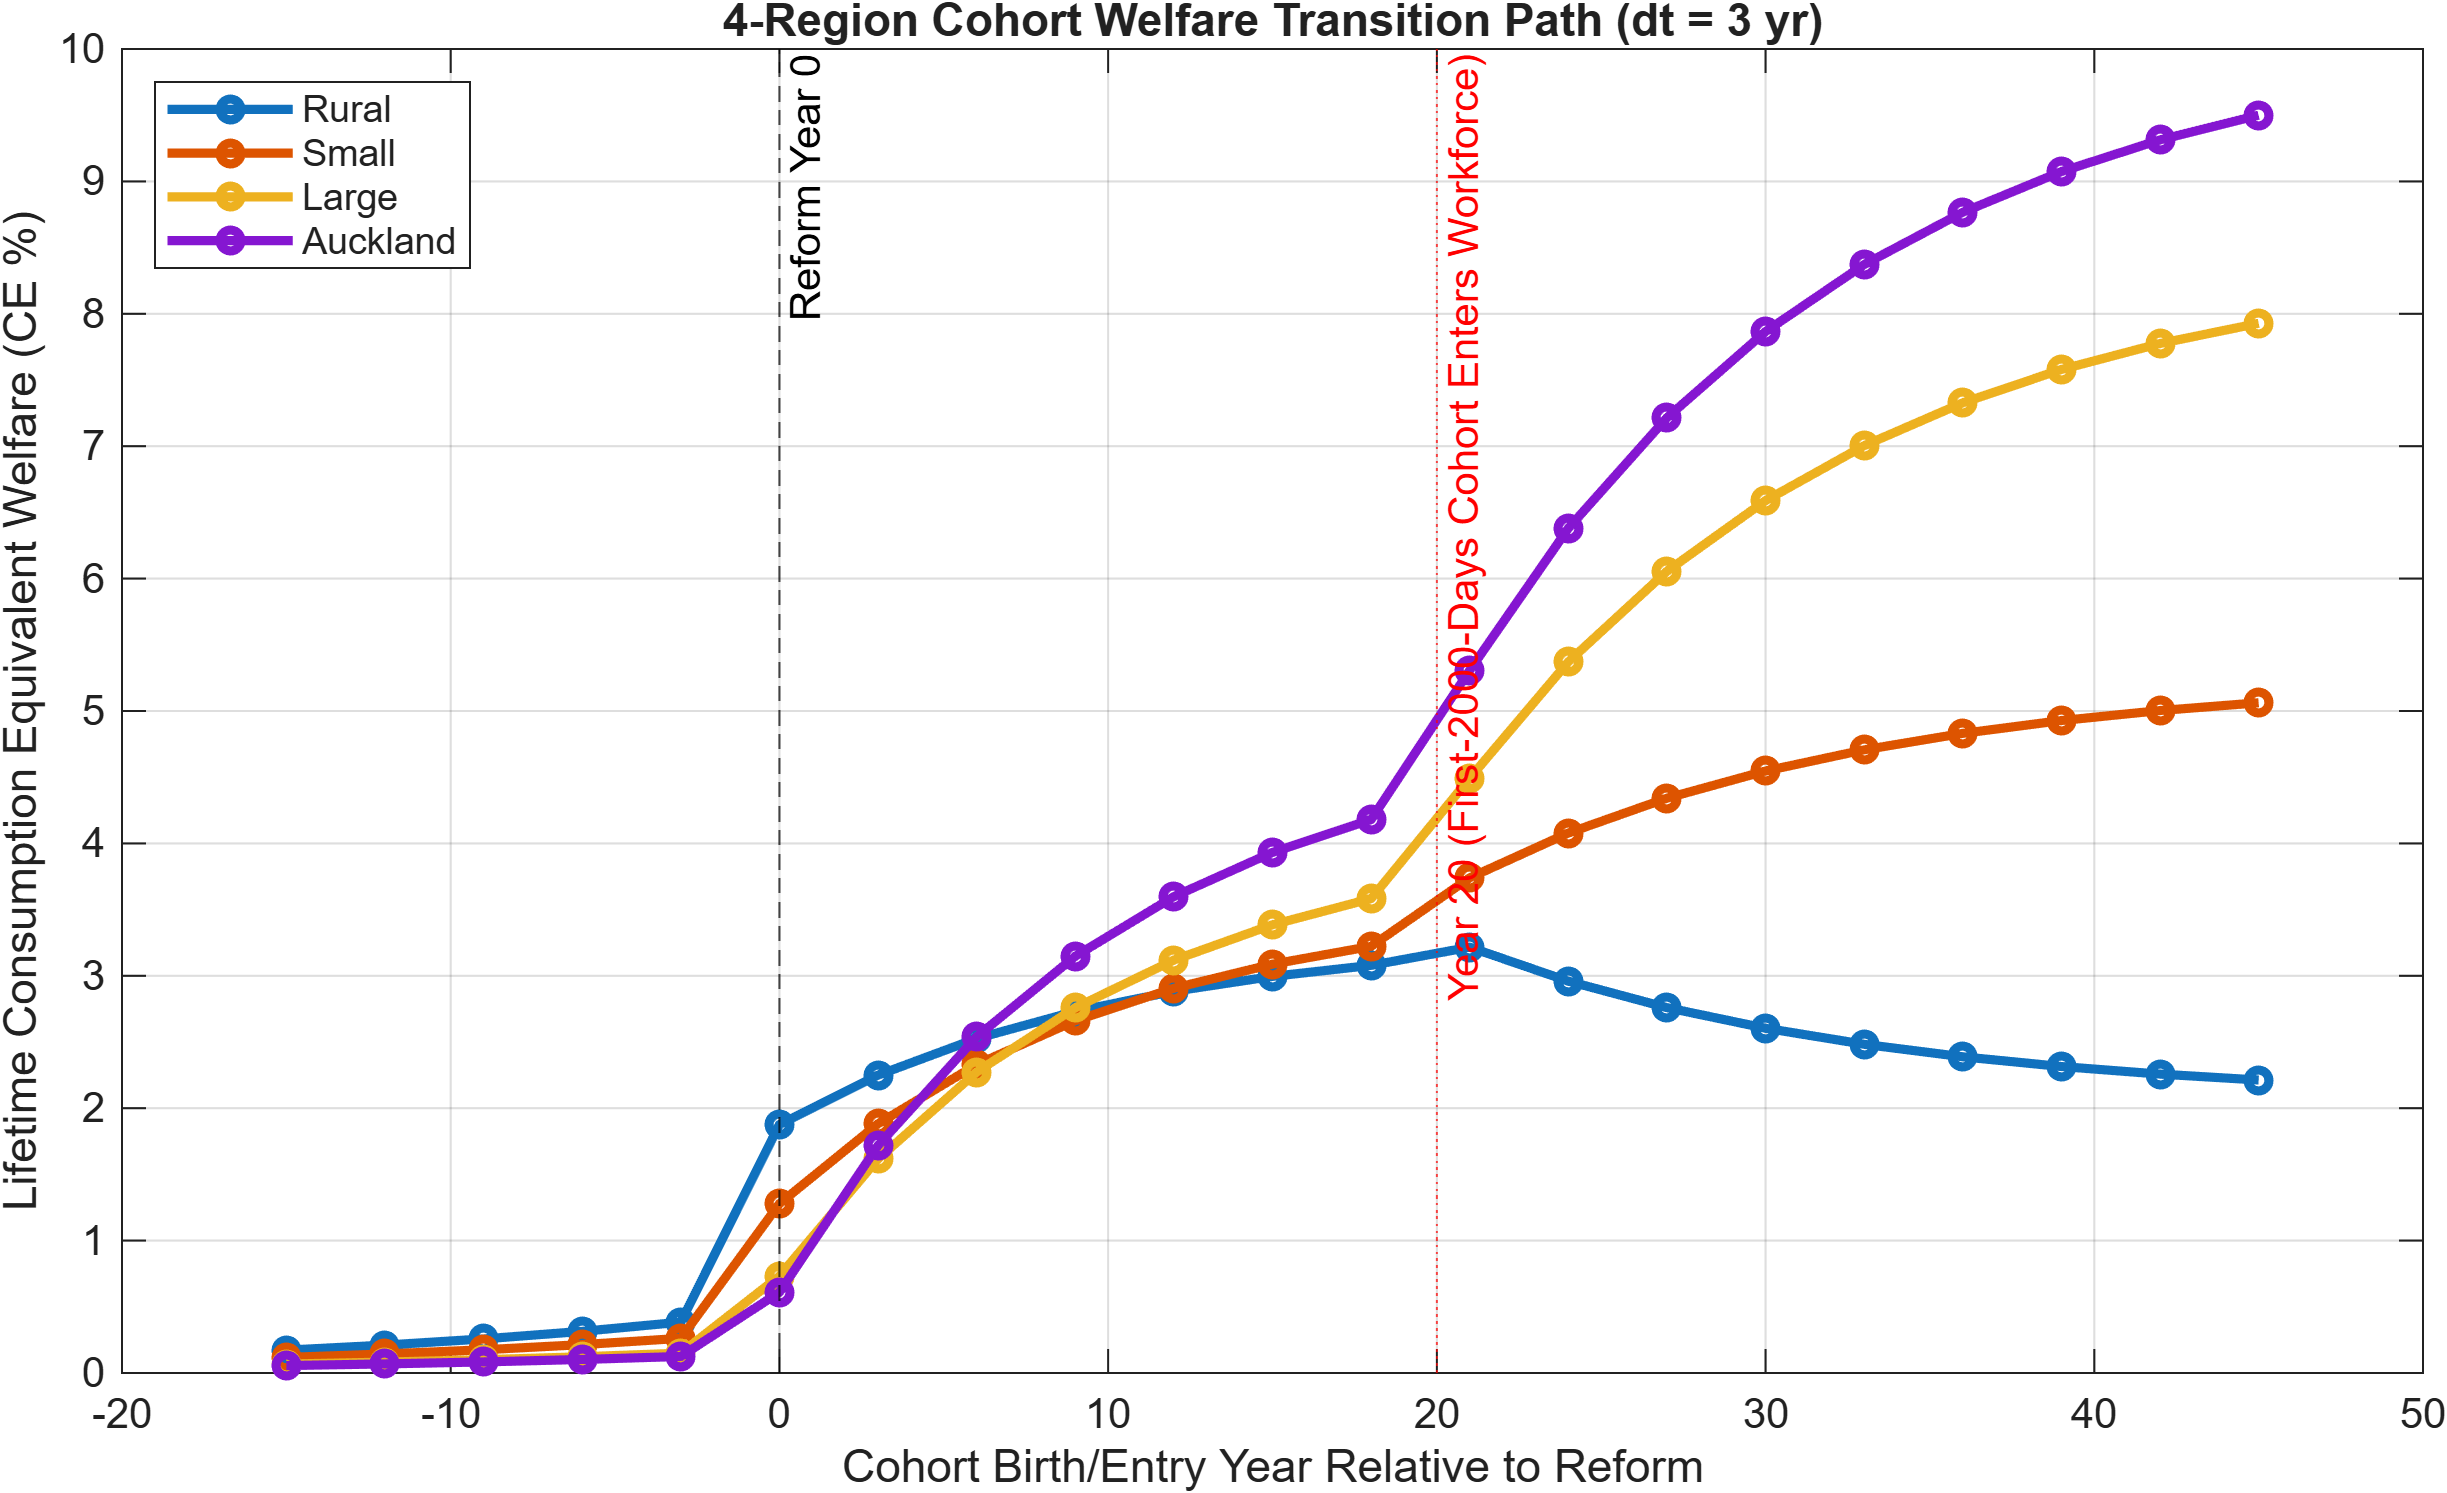
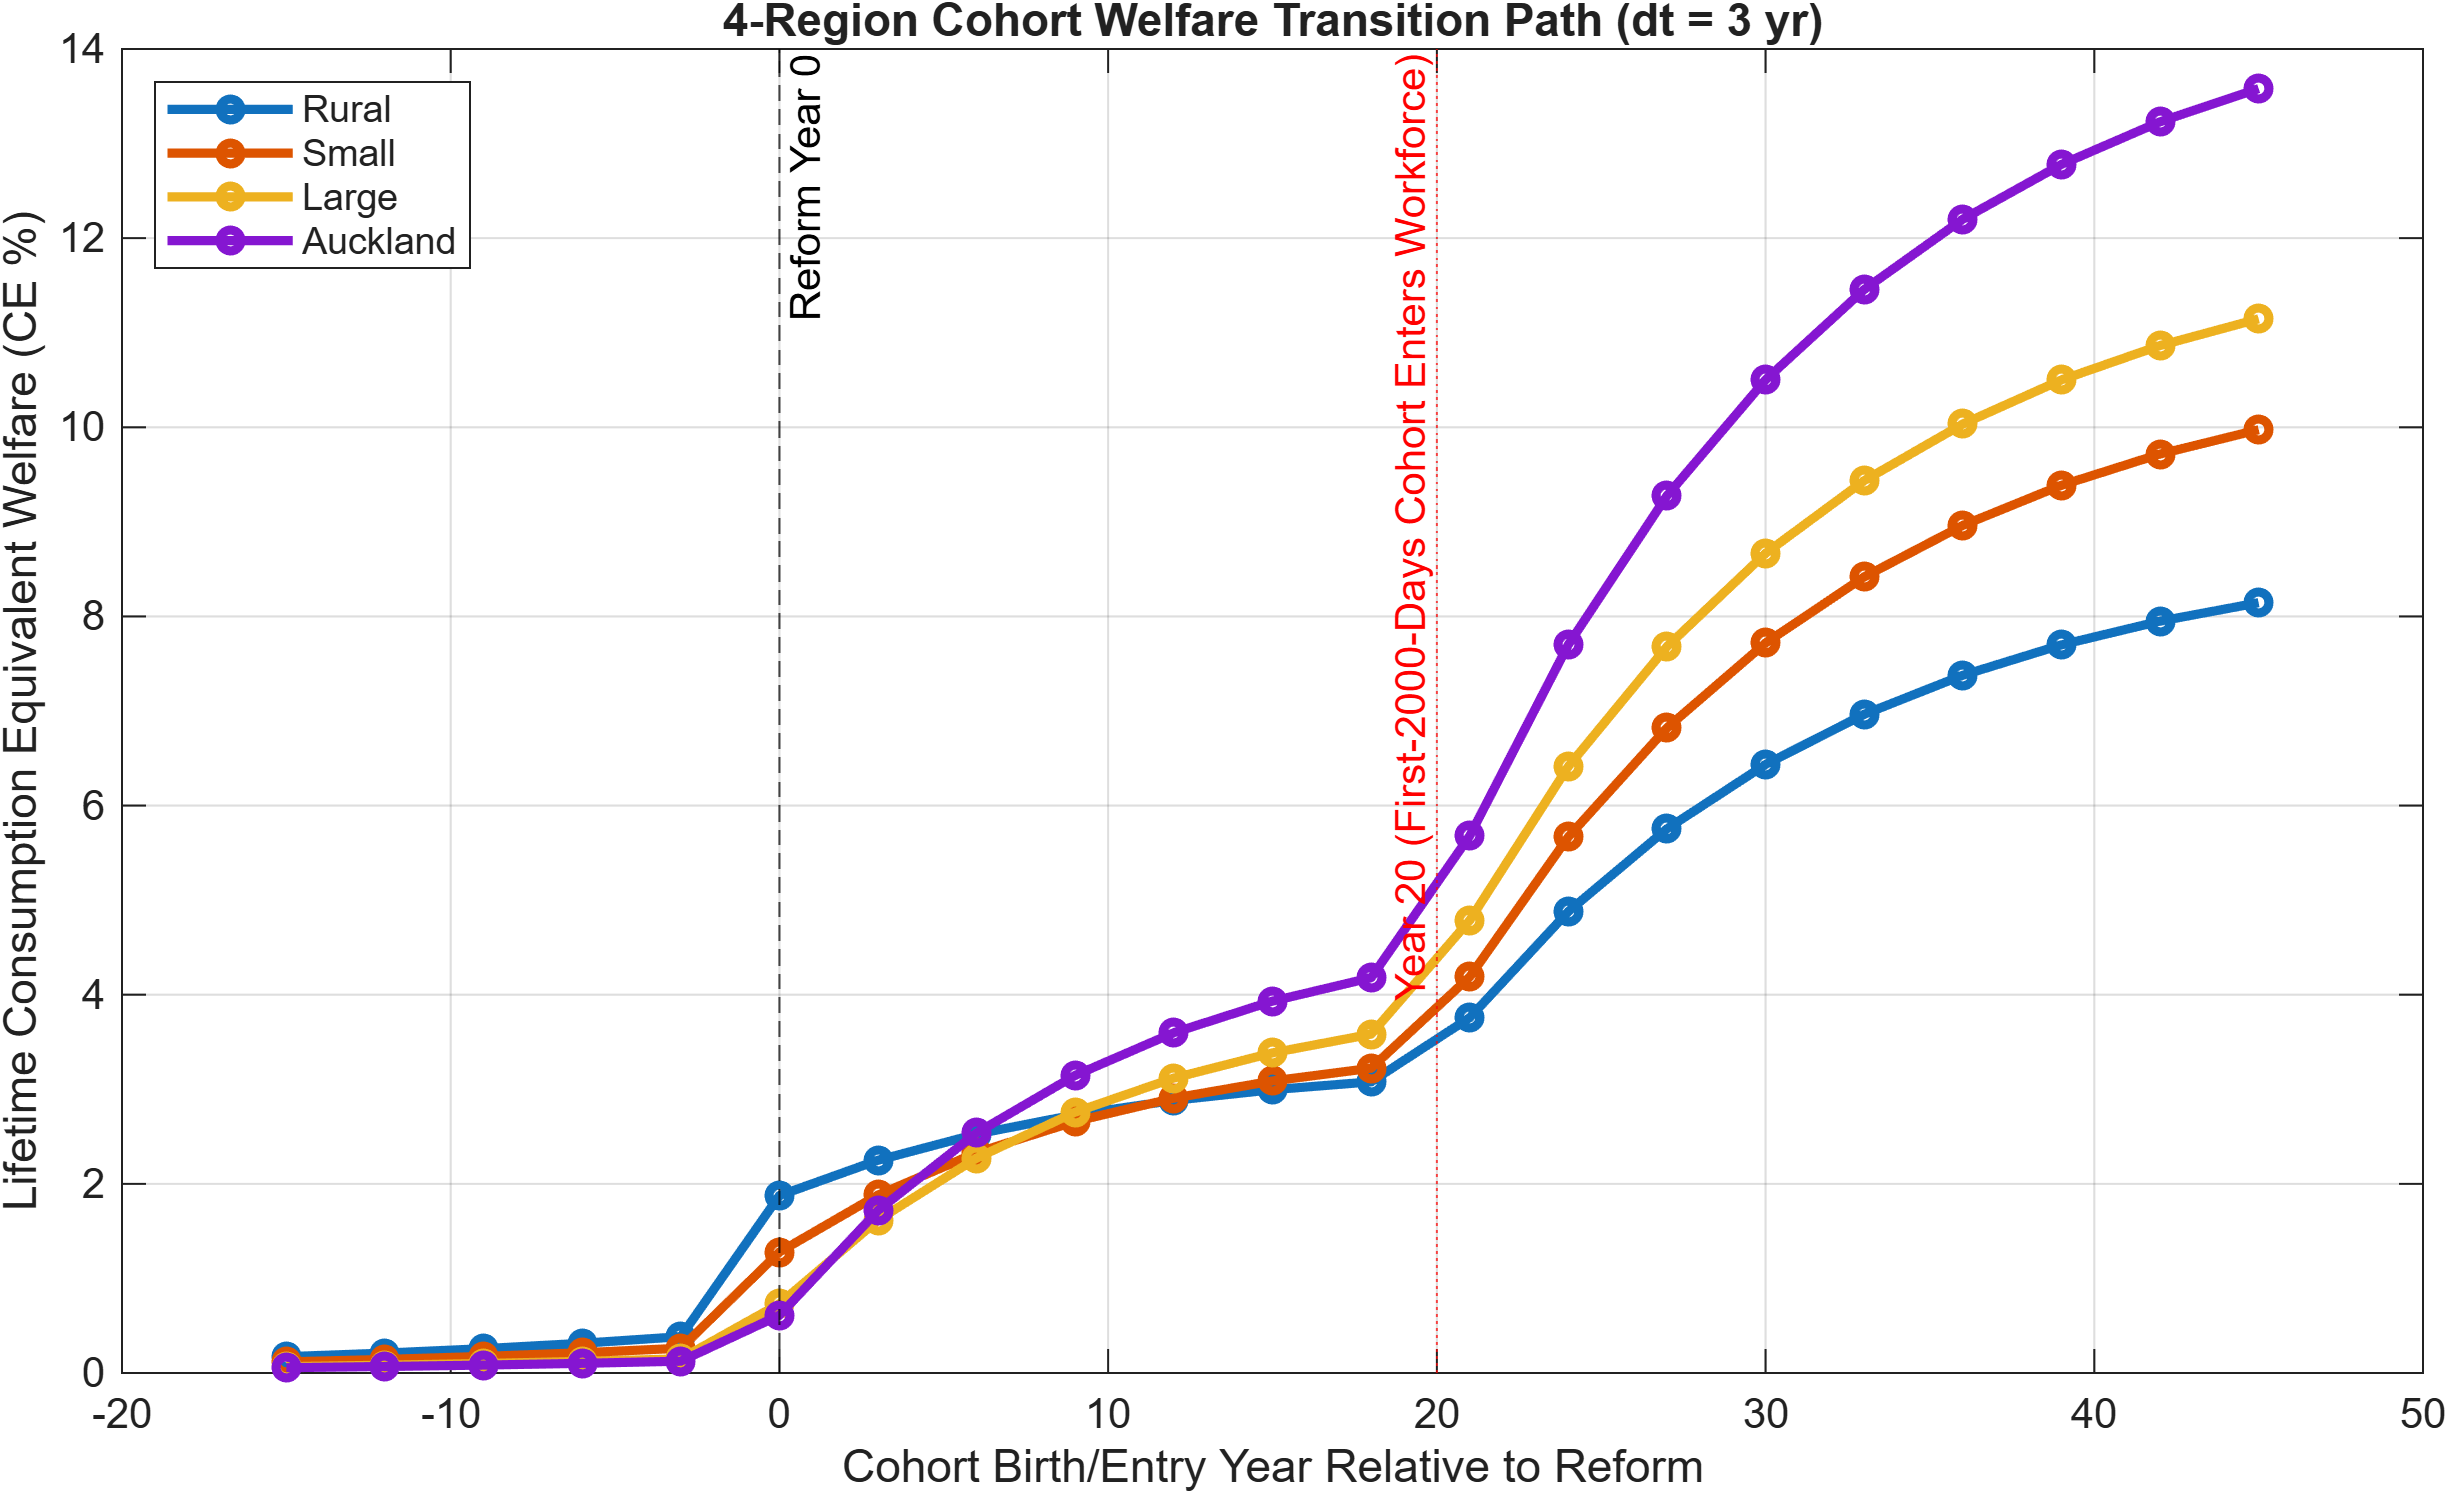
Graphical tuning

diff --git a/PolicyExperiment_LeeSeshadri_4Region.m b/PolicyExperiment_LeeSeshadri_4Region.m
@@ -227,22 +227,51 @@ T_Out = array2table([Ebar_SR, Ebar_LR, CE_LR], 'RowNames', PolicyNames, ...
     'Ebar_LR_Rural', 'Ebar_LR_Small', 'Ebar_LR_Large', 'Ebar_LR_Auckland', ...
     'CE_LR_Rural', 'CE_LR_Small', 'CE_LR_Large', 'CE_LR_Auckland'});
 
-figE8 = figure('Name', 'Lee & Seshadri 4-Region Counterfactuals', 'Color', 'w', 'Position', [100, 100, 1200, 750]);
-tiledlayout(2, 2, 'TileSpacing', 'compact', 'Padding', 'compact');
-cats = categorical(PolicyNames, PolicyNames);
+figE8 = figure('Name', 'Lee & Seshadri 4-Region Counterfactuals', 'Color', 'w', 'Position', [100, 80, 1240, 820]);
+t_e8  = tiledlayout(2, 2, 'TileSpacing', 'loose', 'Padding', 'compact');
 
-nexttile; bar(cats, IGE_LR, 'grouped'); ylabel('Long-Run IGE');
-title('A. Intergenerational Elasticity of Earnings (IGE\_LR)'); grid on; legend(Regions, 'Location', 'northwest');
+CleanLabels = {'BM Baseline'; 'P0 Early (0-5)'; 'P1/P2 Late (6-17)'; 'BN Front-Load'; 'P0 + Grant E'};
+cats = categorical(CleanLabels, CleanLabels);
 
-nexttile; bar(cats, VarExpl_LFE, 'grouped'); ylabel('Variance Explained (%)');
-title('B. Lifetime Earnings Variance Explained by Parents at Age 30-35'); grid on;
+% Panel A: Long-Run IGE
+ax1 = nexttile;
+b_ige = bar(cats, IGE_LR, 'grouped');
+ylim([0, max(0.62, max(IGE_LR(:)) * 1.25)]);
+ylabel('Long-Run IGE');
+title('A. Intergenerational Elasticity of Earnings (IGE\_LR)');
+set(ax1, 'TickLabelInterpreter', 'none');
+grid on;
+lgd = legend(b_ige, Regions, 'Orientation', 'horizontal', 'Location', 'northoutside');
+lgd.Layout.Tile = 'north';
 
-nexttile; bar(cats(2:end), Ebar_LR(2:end, :), 'grouped'); ylabel('\Delta Lifetime Earnings (%)');
-title('C. Long-Run Average Lifetime Earnings Gain (Ebar\_LR %)'); grid on;
+% Panel B: Variance Explained
+ax2 = nexttile;
+bar(cats, VarExpl_LFE, 'grouped');
+ylim([0, max(88, max(VarExpl_LFE(:)) * 1.20)]);
+ylabel('Variance Explained (%)');
+title('B. Lifetime Earnings Variance Explained by Parents at Age 30-35');
+set(ax2, 'TickLabelInterpreter', 'none');
+grid on;
 
-nexttile; bar(cats(2:end), CE_LR(2:end, :), 'grouped'); ylabel('Consumption Equivalent CE\_LR (%)');
-title('D. Long-Run Newborn Welfare Gain (CE\_LR %)'); grid on;
+% Panel C: Lifetime Earnings Gain
+ax3 = nexttile;
+bar(cats(2:end), Ebar_LR(2:end, :), 'grouped');
+ylim([min(0, min(Ebar_LR(:)) * 1.2), max(9.0, max(Ebar_LR(:)) * 1.22)]);
+ylabel('\Delta Lifetime Earnings (%)');
+title('C. Long-Run Average Lifetime Earnings Gain (Ebar\_LR %)');
+set(ax3, 'TickLabelInterpreter', 'none');
+grid on;
+
+% Panel D: Newborn Welfare Gain
+ax4 = nexttile;
+bar(cats(2:end), CE_LR(2:end, :), 'grouped');
+ylim([min(0, min(CE_LR(:)) * 1.2), max(8.0, max(CE_LR(:)) * 1.22)]);
+ylabel('Consumption Equivalent CE\_LR (%)');
+title('D. Long-Run Newborn Welfare Gain (CE\_LR %)');
+set(ax4, 'TickLabelInterpreter', 'none');
+grid on;
 
 if Export_Tables_Figures
     exportgraphics(figE8, fullfile(OutputDir, 'FigE8_LeeSeshadri_4Region_Counterfactuals.png'), 'Resolution', 300);
+    exportgraphics(figE8, fullfile(OutputDir, 'Lee___Seshadri__2019__Fig_E8__4_Region_Parent.png'), 'Resolution', 300);
 end

diff --git a/FertilityBargaining_Module.m b/FertilityBargaining_Module.m
@@ -128,23 +128,46 @@ T_Fert2 = array2table([Stunted_mat, DepRatio_vec, ReqTax_vec], 'RowNames', FertS
     'VariableNames', {'Stunted_Pct_Rural','Stunted_Pct_Small','Stunted_Pct_Large','Stunted_Pct_Auckland', ...
     'DepRatio_65Plus_Pct','Required_LaborTax_Pct'});
 
-figFert = figure('Name', '4-Region Fertility Bargaining & NZ Super Solvency', 'Color', 'w', 'Position', [120, 120, 1150, 720]);
-tiledlayout(2, 2, 'TileSpacing', 'compact', 'Padding', 'compact');
+figFert = figure('Name', '4-Region Fertility Bargaining & NZ Super Solvency', 'Color', 'w', 'Position', [120, 80, 1200, 800]);
+tiledlayout(2, 2, 'TileSpacing', 'loose', 'Padding', 'compact');
 scen_cats = categorical({'1. Baseline','2. Hyperbolic','3. ECE Relief','4. Full Pkg'}, ...
     {'1. Baseline','2. Hyperbolic','3. ECE Relief','4. Full Pkg'});
 
-nexttile; bar(scen_cats, TFR_mat, 'grouped'); ylabel('Total Fertility Rate (TFR)');
-title('A. 4-Region Total Fertility Rate (TFR)'); legend(Regions, 'Location', 'southwest'); grid on;
+nexttile;
+bar(scen_cats, TFR_mat, 'grouped');
+ylim([0, max(2.6, max(TFR_mat(:)) * 1.25)]);
+ylabel('Total Fertility Rate (TFR)');
+title('A. 4-Region Total Fertility Rate (TFR)');
+legend(Regions, 'Location', 'northoutside', 'Orientation', 'horizontal');
+grid on;
 
-nexttile; bar(scen_cats, DiffFert_mat(:, 3:4), 'grouped'); ylabel('Low-Skill minus High-Skill Births');
-title('B. Metropolitan Differential Fertility Gap (Large vs Auckland)'); legend({'Large','Auckland'}); grid on;
+nexttile;
+bar(scen_cats, DiffFert_mat(:, 3:4), 'grouped');
+ylim([0, max(0.38, max(DiffFert_mat(:)) * 1.28)]);
+ylabel('Low-Skill minus High-Skill Births');
+title('B. Metropolitan Differential Fertility Gap (Large vs Auckland)');
+legend({'Large','Auckland'}, 'Location', 'northeast');
+grid on;
 
-nexttile; bar(scen_cats, Stunted_mat(:, 3:4), 'grouped'); ylabel('Stunted Cohort Share (%)');
-title('C. Metropolitan Low-Skill Cohort Share (Large vs Auckland)'); legend({'Large','Auckland'}); grid on;
+nexttile;
+bar(scen_cats, Stunted_mat(:, 3:4), 'grouped');
+ylim([0, max(22, max(Stunted_mat(:)) * 1.28)]);
+ylabel('Stunted Cohort Share (%)');
+title('C. Metropolitan Low-Skill Cohort Share (Large vs Auckland)');
+legend({'Large','Auckland'}, 'Location', 'northeast');
+grid on;
 
-nexttile; yyaxis left; bar(scen_cats, DepRatio_vec, 0.45); ylabel('65+ Dependency Ratio (%)');
-yyaxis right; plot(scen_cats, ReqTax_vec, '-s', 'LineWidth', 2.2, 'MarkerSize', 8); ylabel('Required Labor Tax \tau_l (%)');
-title('D. Aged 65+ Dependency Ratio & Required Tax Rate'); grid on;
+nexttile;
+yyaxis left;
+bar(scen_cats, DepRatio_vec, 0.45);
+ylim([0, max(55, max(DepRatio_vec) * 1.25)]);
+ylabel('65+ Dependency Ratio (%)');
+yyaxis right;
+plot(scen_cats, ReqTax_vec, '-s', 'LineWidth', 2.2, 'MarkerSize', 8);
+ylim([20, max(35, max(ReqTax_vec) * 1.18)]);
+ylabel('Required Labor Tax \tau_l (%)');
+title('D. Aged 65+ Dependency Ratio & Required Tax Rate');
+grid on;
 
 if Export_Tables_Figures
     exportgraphics(figFert, fullfile(OutputDir, 'FigFert_4Region_Bargaining_Solvency.png'), 'Resolution', 300);

diff --git a/TransPath_4Region_Master.m b/TransPath_4Region_Master.m
@@ -95,7 +95,9 @@ Cohesion_St   = 104.3 + 1.85 * (Emig_base(3) - Emig_path(:, 3)) / (Emig_base(3) 
 %% 3. RENDER FIGURES 1, 2, AND 3
 fig1 = figure('Name', 'Cohort Welfare Transition Path', 'Color', 'w', 'Position', [100, 100, 950, 520]);
 plot(Cohort_Years, CE_Cohort, '-o', 'LineWidth', 2.2, 'MarkerSize', 5);
-xline(0, '--k', 'Reform Year 0'); xline(20, ':r', 'Year 20 (First-2000-Days Cohort Enters Workforce)');
+xline(0,  '--k', 'Reform Year 0', 'LabelHorizontalAlignment', 'right', 'LabelVerticalAlignment', 'top');
+xline(20, ':r',  'Year 20 (First-2000-Days Cohort Enters Workforce)', ...
+      'LabelHorizontalAlignment', 'left', 'LabelVerticalAlignment', 'top');
 xlabel('Cohort Birth/Entry Year Relative to Reform'); ylabel('Lifetime Consumption Equivalent Welfare (CE %)');
 title(sprintf('4-Region Cohort Welfare Transition Path (dt = %d yr)', dt));
 legend(Regions, 'Location', 'northwest'); grid on;
